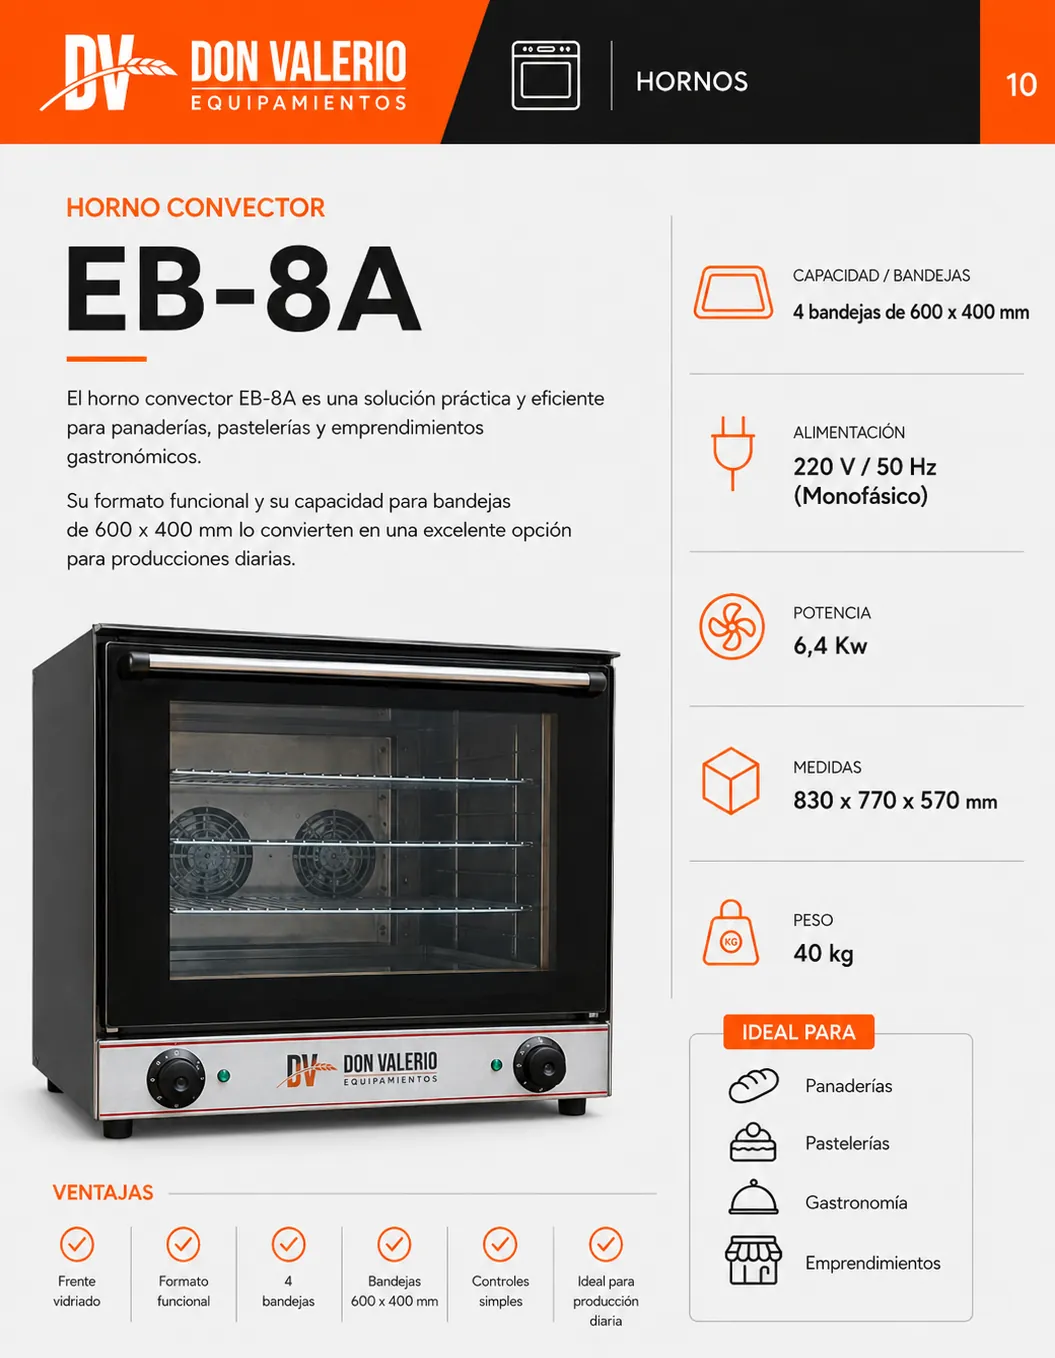
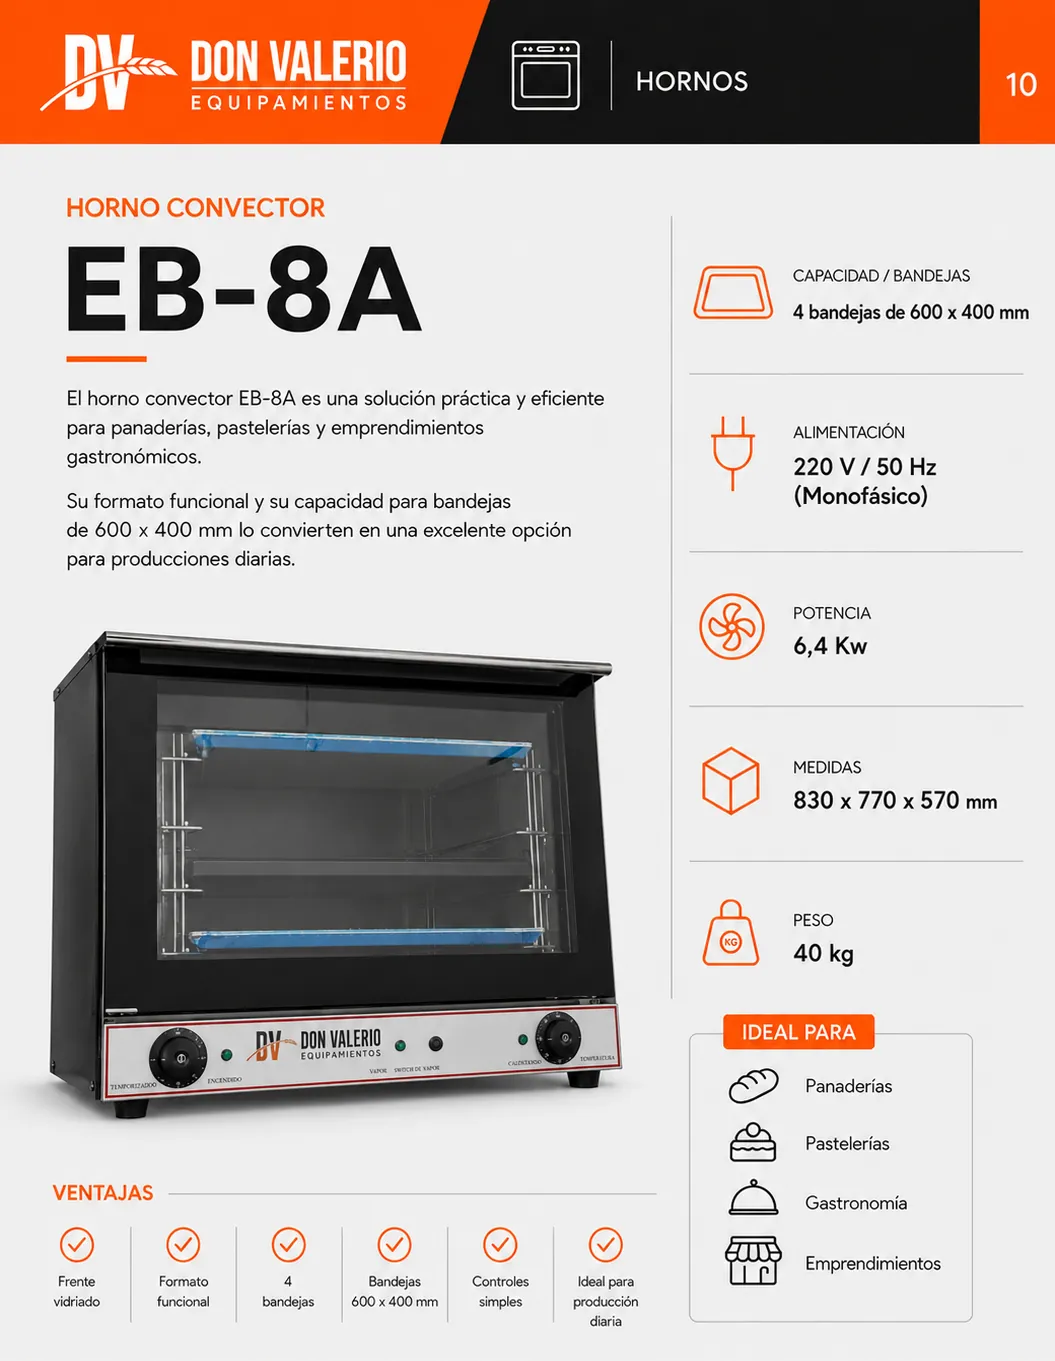
corregir EB-8A: datos, ficha, foto y cache de imagenes

diff --git a/src/data.js b/src/data.js
@@ -163,9 +163,9 @@ const PRODUCTS = [
   },
   {
     sku: 'EB-8A', category: 'hornos', img: 'EB-8A',
-    name: 'Horno Convector Eléctrico 8 Bandejas', cap: '8 band. 60 × 40 cm',
-    desc: 'Horno convector eléctrico de 8 bandejas. Mayor capacidad para producción continua. Circulación de aire uniforme y control de temperatura preciso.',
-    specs: [['Bandejas','8 de 60 × 40 cm'],['Potencia','6,4 KW'],['Alimentación','220V monofásico'],['Dimensiones','830 × 770 × 570 mm'],['Peso','40 kg']],
+    name: 'Horno Convector EB-8A', cap: '4 band. 600 × 400 mm',
+    desc: 'Horno convector eléctrico con capacidad para 4 bandejas de 600 × 400 mm. Solución práctica y eficiente para panaderías, pastelerías y emprendimientos gastronómicos. Frente vidriado, controles simples e ideal para producción diaria.',
+    specs: [['Bandejas','4 de 600 × 400 mm'],['Potencia','6,4 KW'],['Alimentación','220V / 50Hz monofásico'],['Dimensiones','830 × 770 × 570 mm'],['Peso','40 kg']],
     stock: 4,
   },
   {
